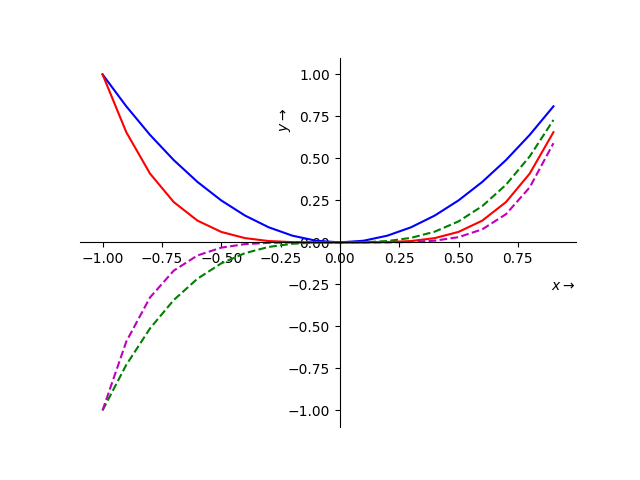
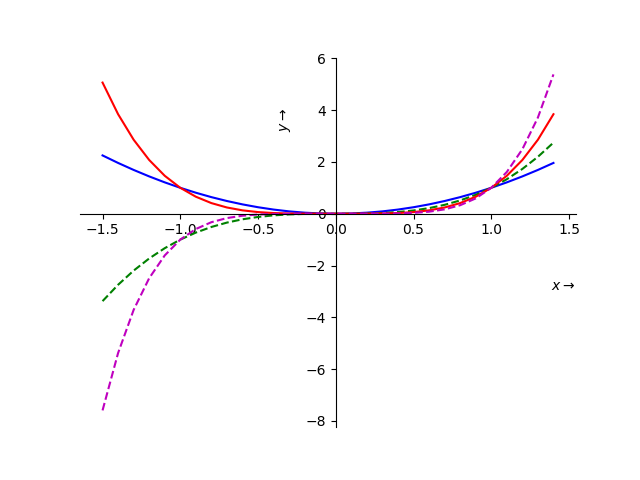
Majeure wijzigingen in het stuk over functie, na feedback van collega.
Behalve een aantal echte fouten zijn er vooral vanuit didactisch oogpunt dingen toegevoegd en veranderd. Zo is in de behandeling van afgeleide functies het voorbeeld veranderd in een parabool in plaats van een hyperbool, omdat dat minder breuken oplevert. Ook zijn plaatjes aangepast om duidelijker te maken waar het om gaat, en is een stukje toegevoegd over delen door h (waarbij h nadert tot nul).

Tevens het geheel voorzien van een versienummer.

diff --git a/functies.tex b/functies.tex
@@ -4,21 +4,21 @@
 
 \subsection{Functies}
 
-Eén van de centrale concepten binnen de wiskunde, en zeker zeker ook binnen de \textit{machine learning} is de \textit{functie}. Formeel beschrijft een functie een relatie tussen twee verzamelingen $X$ en $Y$, waarbij een element uit $X$ gekoppeld wordt aan precies één element uit de verzameling $Y$. Eenvoudiger gezegd is een functie een verhouding tussen twee getallen, waarbij het ene getal (de zogenaamde \textit{afhankelijke variabele}) wordt uitgedrukt in termen van het andere getal (de \textit{onafhankelijke variabele}). Je kunt een functie opvatten als een machine die een geschikte invoer (geschikte getallen) omzet in een bepaalde uitvoer.
+Eén van de centrale concepten binnen de wiskunde, en zeker zeker ook binnen de \textit{machine learning} is de \textit{functie}. Formeel beschrijft een functie een relatie tussen twee verzamelingen $X$ en $Y$, waarbij een element uit $X$ gekoppeld wordt aan precies één element uit de verzameling $Y$. Denk bijvoorbeeld aan een functie die een getal (de \textit{input}) omzet in het kwadraat van dat getal (de \textit{output}) – de functie kun je dan opvatten als een machine die kwadraten van getallen maakt, met getallen als input. 
 
-Een functie in de wiskunde doet op deze manier denken aan een functie (of \textit{methode}) zoals we die kennen uit onze programmeerervaring. Zo wordt door de Java-methode \texttt{subString} een string omgezet in een betreffende substring, maar alleen als je deze aanroept met twee parameters van het type \texttt{int}. In methoden of functies waarin geen waarde wordt geretourneerd, is het return statement impliciet (elke methode of functie retourneert dus uiteindelijk een waarde).
+In deze zin is een functie iets strikter dan zoals we die kennen uit onze programmeerervaring. In de wiskundige zin van het woord heeft een functie een heel duidelijke input- en output-variabele: louter op basis van de input wordt een heel strikte output bepaald, waarbij er geen \textit{side effects} optreden en zonder dat er wordt gekeken naar een staat die buiten de functie ligt (zoals systeemgegevens of klasse-variabelen).
 
-In de regel wordt de ongebonden variabele aangegeven met $x$ en de gebonden variabele met $y$. Om aan te geven dat $y$ van $x$ afhankelijk is, schrijf je de \textit{vergelijkingsvorm} $y=formule$, bijvoorbeeld $y=2x+3$. Een andere notatievorm is de \textit{haakjesvorm}: $f(x) = 2x+3$ – de functiewaarde van $y$ is gelijk aan $2x+3$. Behalve het geven van een formule kun je een functie natuurlijk ook in een assenstelsel tekenen. Hierbij zetten we de $x$ op de horizontale lijn en de $y$ op de verticale lijn. Elk punt in onze formule geven we dan weer als het \textit{tupel} $(x,y)$. Door al deze punten met elkaar te verbinden, verkrijgen we de grafiek van onze functie:
+In de regel wordt de input aangegeven met $x$ en de output met $y$. Om aan te geven dat $y$ van $x$ afhankelijk is, schrijf je de \textit{vergelijkingsvorm} $y=formule$, bijvoorbeeld $y=2x+3$. Een andere notatievorm is de \textit{haakjesvorm}: $f(x) = 2x+3$ – de functiewaarde van $y$ is gelijk aan $2x+3$. Het grote voordeel van die tweede notatievorm is dat je de functie expliciet een naam geeft, waarmee je eraan kunt referen – je spreekt dan over functie $f$ of functie $g$. Zeker wanneer je met meerdere functies tegelijk aan het werk bent, is dat onontbeerlijk. 
 
-\begin{figure}[h]
+Behalve het geven van een formule kun je een functie natuurlijk ook in een assenstelsel tekenen. Hierbij zetten we de $x$ op de horizontale lijn en de $y$ op de verticale lijn. Elk punt in onze formule geven we dan weer als het \textit{tupel} $(x,y)$. Door al deze punten met elkaar te verbinden, verkrijgen we de grafiek van onze functie:
+
+\begin{figure}[h!]
     \centering
-    \includegraphics[width=.75\textwidth]{functie}
+    \includegraphics[width=.5\textwidth]{functie}
     \caption{Voorbeeld van een grafiek van een functie.\label{img:functie}}
 \end{figure}
 
-De verzameling van alle mogelijke waarden van de ongebonden variabele (de \textit{input}) is het \textit{domein} van de functie, dat we aangeven met $D$; de verzameling van de mogelijke waarden van de gebonden variabele (de \textit{output}) is het \textit{bereik} van die functie, wat wordt weergegeven met $B$. Gegeven een functie $f(x)=\sqrt{x-1}$, dan is het \textit{domein} van die functie de verzameling van alle getallen groter dan of gelijk aan 1, terwijl het \textit{bereik} van die functie gelijk is aan alle getallen groter dan of gelijk aan 0. Een dergelijke verzameling van getallen kun je omschrijven als een \textit{interval}: als $a < b$ dan vormen alle getallen tussen $a$ en $b$ het \textit{open interval} $\left<a,b\right>$. Als de getallen $a$ en $b$ ook bij het interval horen, dan spreek je van een \textit{gesloten interval}, wat je schrijft als $\left[a,b\right]$.
-
-Een functie kan op een bepaald interval \textit{stijgen}, \textit{dalen}, of \textit{gelijk blijven}. Een stijging of daling kan constant zijn, toenemen of afnemen. Het punt waarop een functie van een stijging overgaat naar een daling heet een \textit{maximum}; het punt waar een functie overgaat van een daling naar een stijging heel een \textit{minimum}. Zo heeft de functie in Figuur \ref{img:min_max} een maximum in punt $(A, f(A))$ en een minumum in punt $(B, f(B))$. De functie vertoont een \textit{afnemende stijging} tussen $\left[-\infty, A \right>$ en een \textit{toenemende stijging} tussen $\left< B, \infty \right]$; hij \textit{daalt} tussen $\left[A,B\right]$. Verder is zowel het \textit{domein} als het \textit{bereik} van deze functie $\left[-\infty, \infty\right]$.
+De verzameling van alle mogelijke waarden van de input is het \textit{domein} van de functie, dat we aangeven met $D$; de verzameling van de mogelijke waarden van de \textit{output} is het \textit{bereik} van die functie, wat wordt weergegeven met $B$. Gegeven een functie $f(x)=\sqrt{x-1}$, dan is het \textit{domein} van die functie de verzameling van alle getallen groter dan of gelijk aan 1, terwijl het \textit{bereik} van die functie gelijk is aan alle getallen groter dan of gelijk aan 0. Een dergelijke verzameling van getallen kun je omschrijven als een \textit{interval}: als $a < b$ dan vormen alle getallen tussen $a$ en $b$ het \textit{open interval} $\left(a,b\right)$. Als de getallen $a$ en $b$ ook bij het interval horen, dan spreek je van een \textit{gesloten interval}, wat je schrijft als $\left[a,b\right]$.
 
 \begin{figure}[h]
 \centering
@@ -26,11 +26,11 @@ Een functie kan op een bepaald interval \textit{stijgen}, \textit{dalen}, of \te
 \caption{Een functie met een minumum en een maximum.\label{img:min_max}}
 \end{figure}
 
+Een functie kan op een bepaald interval \textit{stijgen}, \textit{dalen}, of \textit{gelijk blijven}. Een stijging of daling kan constant zijn, toenemen of afnemen. Het punt waarop een functie van een stijging overgaat naar een daling heet een \textit{maximum}; het punt waar een functie overgaat van een daling naar een stijging heel een \textit{minimum}. Zo heeft de functie in Figuur \ref{img:min_max} een maximum in punt $(A, f(A))$ en een minumum in punt $(B, f(B))$. De functie vertoont een \textit{stijging} tussen $\left[-\infty, A \right)$ en tussen $\left( B, \infty \right]$; hij \textit{daalt} tussen $\left[A,B\right]$. Verder is zowel het \textit{domein} als het \textit{bereik} van deze functie $\left[-\infty, \infty\right]$.
+
 \subsection{Machtfuncties en polynomen}
 
-Een \textit{machtsfunctie} is een functie waarvan de algemene vorm $f(x)= a \cdot x^n$ is, waarbij $a$ (de \textit{vermenigvuldigingsfactor} en $n$ (de \textit{exponent}) willekeurige positieve of negatieve getallen kunnen zijn. Wanneer de exponent geen geheel getal is, mag $x$ niet negatief zijn. Wanneer de exponent een negatief getal is, mag $x$ niet 0 zijn. 
-
-In Figuur \ref{img:machtsfuncties} zijn de grafieken van $x^2$ (blauwe lijn), $x^3$ (groene stippellijn), $x^4$ (rode lijn) en $x^5$ (magenta stippellijn) getekend. Als je goed naar deze grafieken kijkt, valt een aantal zaken op. Alle vier de functies gaan door de punten $(0,0)$ en door $(1,1)$. Het bereik van de functies waarvan de exponent een \textit{even getal} is, ligt boven de y-as ($f(x) \geq 0$ voor alle $x \in D$) en deze functies zijn \textit{lijnsymmetrisch} in de y-as (dus $f(-x) = f(x)$ voor alle $x \in D$). Verder gaan deze functies allemaal door het punt $(-1, -1)$. De functies waarvan de exponent een \textit{oneven getal} is, gaan allemaal door punt $(-1,-1)$ en zijn \textit{puntsymmetrisch} in punt $(0,0)$ (dus $f(-x)=-f(x)$ voor alle $x \in D$).
+Een \textit{machtsfunctie} is een functie waarvan de algemene vorm $f(x)= a \cdot x^n$ is, waarbij $a$ (de \textit{vermenigvuldigingsfactor} en $n$ (de \textit{exponent}) willekeurige positieve of negatieve getallen kunnen zijn. Voor het gemak gaan we er hier van uit dat $n$ altijd een geheel positief getal is (wat voor polynomen ook wel gebruikelijk is, en anders introduceren we te veel complexiteit die voor het onderwerp \textit{machine learning} niet relevant is).
 
 \begin{figure}[h]
     \centering
@@ -38,8 +38,11 @@ In Figuur \ref{img:machtsfuncties} zijn de grafieken van $x^2$ (blauwe lijn), $x
     \caption{Diverse machtsfuncties bij elkaar getekend.\label{img:machtsfuncties}}
 \end{figure}
 
-Vaak zie je, zeker in het geval van machine learning, dat een functie bestaat uit een aantal termen met verschillende machten, zoals bijvoorbeeld de functie $f(x) = x^3+3x^2+2x$, die is weergegeven in Figuur \ref{img:polynoom}. Zo'n soort functie noemen we een \textit{polynoom} (van het Griekse polús (veel) en nomós (deel): een functie die uit veel delen bestaat). Je ziet hier dat $f(x)=0$ voor $x=-2$, $x=-1$ en $x=0$ (de \textit{nulpunten}). Verder zitten er  tussen de nulpunten een minimum en een maximum (hoewel die niet exact midden tussen de nulpunten in liggen). Wanneer we waarden van $x$ nemen die heel groot of heel klein zijn, heeft de hoogste term in de functie-definitie de sterkste invloed op de waarden van $f(x)$ – de functie gaat nagenoeg gelijk lopen met de functie $g(x)=x^3$. Alleen dicht bij de 0 zijn er wat verschillen waar te nemen. Deze functie wordt een om die reden een polynoom van de \textit{derde graad} genoemd: de hoogste exponent van de functie-definitie bepaalt de \textit{graad} van de functie. 
+In Figuur \ref{img:machtsfuncties} zijn de grafieken van $x^2$ (blauwe lijn), $x^3$ (groene stippellijn), $x^4$ (rode lijn) en $x^5$ (magenta stippellijn) getekend. Als je goed naar deze grafieken kijkt, valt een aantal zaken op. Alle vier de functies gaan door de punten $(0,0)$ en door $(1,1)$. Het bereik van de functies waarvan de exponent een \textit{even getal} is, ligt boven de y-as ($f(x) \geq 0$ voor alle $x \in D$) en deze functies zijn \textit{lijnsymmetrisch} in de y-as (dus $f(-x) = f(x)$ voor alle $x \in D$). Verder gaan deze functies allemaal door het punt $(-1, 1)$. De functies waarvan de exponent een \textit{oneven getal} is, gaan allemaal door punt $(-1,-1)$ en zijn \textit{puntsymmetrisch} in punt $(0,0)$ (dus $f(-x)=-f(x)$ voor alle $x \in D$).
 
+Vaak zie je, zeker in het geval van \textit{machine learning}, dat een functie bestaat uit een aantal \textit{termen} met verschillende machten, zoals bijvoorbeeld de functie $f(x) = x^3+3x^2+2x$, die is weergegeven in Figuur \ref{img:polynoom}; deze functie heeft drie termen, waarvan $x^3$ de hoogste is. Zo'n soort functie noemen we een \textit{polynoom} (van het Griekse polús (veel) en nomós (deel): een functie die uit veel delen bestaat). Je ziet hier dat $f(x)=0$ voor $x=-2$, $x=-1$ en $x=0$ (de \textit{nulpunten}). Verder zitten er tussen de nulpunten een minimum en een maximum (hoewel die niet exact midden tussen de nulpunten in liggen). 
+
+Wanneer we waarden van $x$ nemen die heel groot of heel klein zijn, heeft de hoogste term in de functie-definitie de sterkste invloed op de waarden van $f(x)$ – de functie gaat nagenoeg gelijk lopen met de functie $g(x)=x^3$. Alleen dicht bij de 0 zijn er wat verschillen waar te nemen. Deze functie wordt een om die reden een polynoom van de \textit{derde graad} genoemd: de hoogste exponent van de functie-definitie bepaalt de \textit{graad} van de functie. 
 
 \begin{figure}[h]
     \centering
@@ -52,24 +55,32 @@ Net als bij enkelvoudige functies kunnen de termen in een polynoom voorzien word
 
 \subsection{Afgeleide functies}
 
-Vaak is het van belang om te weten of een functie op een interval $\left[a,b\right]$ stijgt of daalt – de zogenaamde \textit{differentie}. Om dit te bepalen, kunnen we de waarde van $f(x)$ (of $y$) voor zowel $a$ als $b$ uitrekenen en van elkaar aftrekken. Als $f(a) < f(b)$, dan is de differentie van $f(x)$ op $\left[a,b\right]$ \textit{negatief}: de functie vertoont een daling op het interval. Omgekeerd, als $f(a) > f(b)$, dan is de differentie van $f(x)$ op $\left[a,b\right]$ \textit{positief}: de functie vertoont een stijging. De totale differentie geven we aan met de griekse hoofdletter delta: \Delta.
-
-In Figuur \ref{img:hyperbool} is de functie $f(x) = \frac{1}{4x}$ op het interval $\left<0,2\right]$ weergegeven. Stel dat we de daling van deze functie op het interval $\left[\frac{1}{8}, \frac{1}{4}\right]$ willen weten, zoals aangegeven door de linker groene stippellijn. Om dit te bepalen, berekenen we eerst $f(x)$ voor het rechter extreem van het interval, en trekken daar $f(x)$ voor het linker extreem vanaf. De totale daling $\Delta$ wordt dan $f(\frac{1}{4}) - f(\frac{1}{8}) = \frac{1}{1} - \frac{1}{0.5} = 1 - 2 = -1$. Op eenzelfde manier kunnen we de totale differentie op het interval $\left[\frac{1}{4},1\right]$ bepalen: $\Delta = f(1) - f(\frac{1}{4})  = \frac{1}{4} - \frac{1}{1} = 0.25 - 1 = -0.75$.
+Vaak is het van belang om te weten of een functie op een interval $\left[a,b\right]$ stijgt of daalt – de zogenaamde \textit{differentie} (het \textit{verschil} van de functiewaarden op dit interval). Om dit te bepalen, kunnen we de waarde van $f(x)$ (of $y$) voor zowel $a$ als $b$ uitrekenen en van elkaar aftrekken (waarbij $a<b$). Als $f(a) > f(b)$, dan is de differentie van $f(x)$ op $\left[a,b\right]$ \textit{negatief}: de functie vertoont een daling op het interval. Omgekeerd, als $f(a) < f(b)$, dan is de differentie van $f(x)$ op $\left[a,b\right]$ \textit{positief}: de functie vertoont een stijging. De totale differentie geven we aan met de griekse hoofdletter delta: \Delta.
 
 \begin{figure}[h]
     \centering
-    \includegraphics[width=.75\textwidth]{hyperbool}
-    \caption{De functie $f(x) = 1/4x$\label{img:hyperbool}}
+    \includegraphics[width=.5\textwidth]{parabool_differentie}
+    \caption{De functie $f(x) = x^2$\label{img:parabool_differentie}}
 \end{figure}
+
+In figuur \ref{img:parabool_differentie} is de functie $f(x)=x^2$ getekend voor het domein $[\left[0,2\right]$. Stel nu dat we de differentie willen weten op het interval $\left[0.5, 1.0\right]$, zoals aangegeven door de linker groene stippellijn. Om dat te bepalen, berekenen we eerst $f(x)$ voor het rechter extreem van dit interval: $f(x) = x^2 = 1^2 = 1$ en vervolgens de functiewaarde van het linkerextreem van het interval: $f(x) = x^2 = (0.5)^2 = 0.25$. Vervolgens trekken we beide getallen van elkaar af om de totale differentie te verkrijgen: $1-0.25=0.75$. Op eenzelfde manier verkrijgen we de differentie op het interval $\left[1, 1.5\right]$: $\Delta = f(x_2) - f(x_1) = f(1.5)-f(1) = 2.25-1 = 1.25$, die met de rechter groene lijntjes is aangegeven. 
+
     
-Behalve het totaal is ook de \textit{gemiddelde} stijging of daling van belang – het zogenaamde \textit{differentiequotiënt}. Dit berekenen we door de totale stijging of daling op een interval te delen door de lengte van het interval. Het differentiequotiënt van $f(x)$ uit Figuur \ref{img:hyperbool} op het interval $\left[\frac{1}{4},1\right]$ is dus $\frac{-0.75}{1-\frac{1}{4}} = -1$. Dit cijfer correspondeert met de \textit{richtingscoëfficiënt} van de lijn die de beide extremen van het gegeven interval met elkaar verbindt – de rode stippellijn in Figuur \ref{img:hyperbool}. Algemeen geldt dat als $a<b$, het differentiequotiënt gelijk is aan
+Behalve het totaal is ook de \textit{gemiddelde} stijging of daling van belang – het zogenaamde \textit{differentiequotiënt} – de deling (het \textit{quotiënt}) van de verschillen (de \textit{differenties}) tussen de beide $x$-en en de beide $y$-en. Dit berekenen we door de totale stijging of daling op een interval te delen door de lengte van het interval. Het differentiequotiënt van $f(x)$ uit Figuur \ref{img:parabool_differentie} op het interval $\left[0.5,1\right]$ is dus $\frac{1-0.25}{1-0.5} = \frac{0.75}{0.5} = 1.5$. Dit cijfer correspondeert met de \textit{richtingscoëfficiënt} van de lijn die de beide extremen van het gegeven interval met elkaar verbindt – de rode stippellijn in Figuur \ref{img:parabool_ricos}. Op een vergelijkbare manier kunnen we de richtingscoëfficiënt van de lijn in het tweede interval berekenen: de magenta lijn in de figuur. 
+
+\begin{figure}[h]
+    \centering
+    \includegraphics[width=.5\textwidth]{parabool_ricos}
+    \caption{De functie $f(x) = x^2$, intervallen voorzien van raaklijnen\label{img:parabool_ricos}}
+\end{figure}
+
+Algemeen geldt dat als $a<b$, het differentiequotiënt gelijk is aan
 
 \[
     \frac{f(b)-f(a)}{b-a}.
 \]
 
-
-Om de differentie van een functie op een specifiek punt $f(a)$ te bepalen, berekenen we de gemiddelde differentie van de functie op het interval $\left[a,a+h\right]$, waarbij we $h$ steeds kleiner maken. Stel nu dat $f(x)=x^2$, dan kunnen we differentie op punt $x$ als volgt bepalen:
+Om de differentie van een functie op een specifiek punt $f(a)$ te bepalen, berekenen we de gemiddelde differentie van de functie op het interval $\left[a,a+h\right]$, waarbij we $h$ steeds kleiner maken (alsof we de rechter groene lijnen in Figuur \ref{img:parabool_ricos} steeds dichter bij de linkerlijnen laten komen). Stel nu dat $f(x)=x^2$, dan kunnen we differentie op punt $x$ als volgt bepalen:
 \[
 \begin{aligned}
     \Delta &= \frac{f(x+h)-f(x)}{(x+h) - x} & \text{waarden voor } x \text{ en } h \text{ invullen:}\\
@@ -81,8 +92,10 @@ Om de differentie van een functie op een specifiek punt $f(a)$ te bepalen, berek
 \end{aligned}
 \]            
 
+(Zoals je ziet zit er in deze afleiding een opvallende stap, namelijk wanneer we beide termen delen door $h$. Dit kan natuurlijk niet zonder meer, zeker niet omdat we $h$ laten naderen tot 0. Het voert te ver om hier toe te lichten waarom dat in dit geval toegestaan is, omdat we niet echt delen door nul, maar $h$ steeds dichter naar nul laten naderen (maar het wordt dus nooit echt helemaal nul). Zie voor meer informatie \href{https://www.wisfaq.nl/pagina.asp?nummer=1451}{deze link}.)
+
 We zien dus dat de differentie van elk punt $x$ op de functie $f(x) = x^2$ zelf ook weer een functie van $x$ is, namelijk $2x$. 
-Deze tweede functie heet de \textit{afgeleide functie} van $f(x)$ en wordt genoteerd als $f'(x)$, of als een zogenaam \textit{differentiequotiënt}:
+Deze tweede functie heet de \textit{afgeleide functie} van $f(x)$ en wordt genoteerd als $f'(x)$, of als een zogenaamd \textit{differentiequotiënt}:
 
 \[
     f'(x) = \frac{df}{dx}

diff --git a/voorblad.tex b/voorblad.tex
@@ -9,7 +9,7 @@
 	{\Large\itshape Bart Barnard\par}
 	\vfill
 	
-	{\large september 2019\par}
+	{\large v2.0 – september 2019\par}
 \end{titlepage}
 
 \tableofcontents
